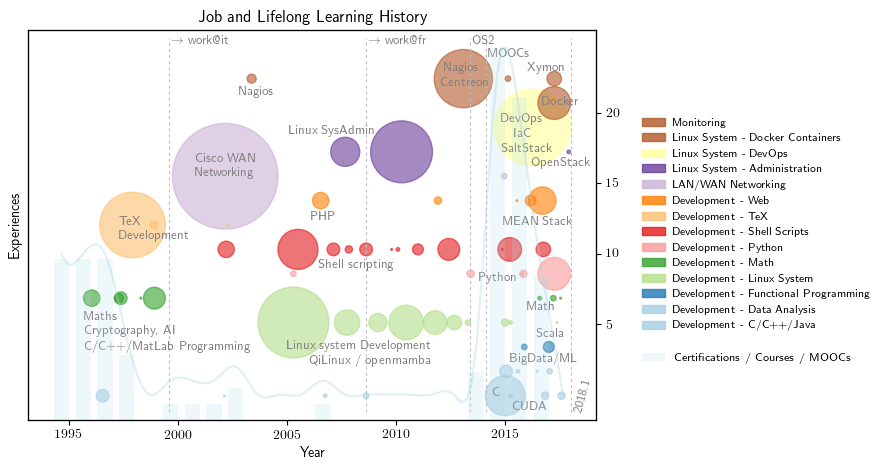
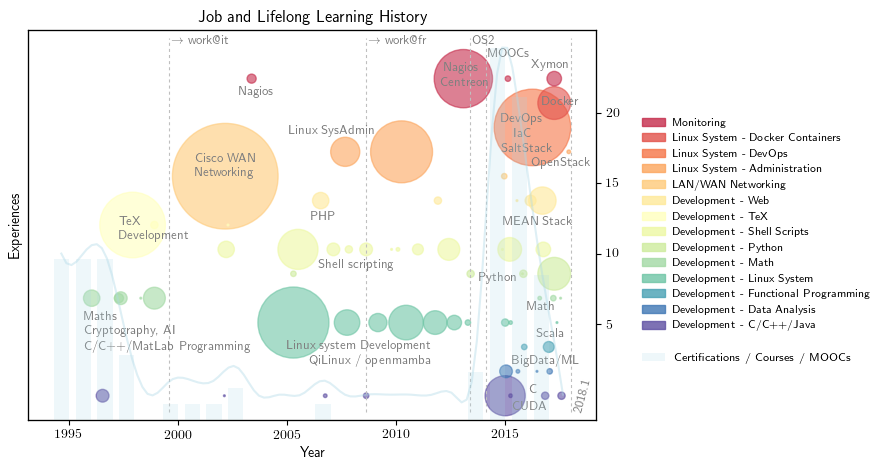
plot: change the plot colormap

diff --git a/scripts/plot-experiences.py b/scripts/plot-experiences.py
@@ -28,7 +28,7 @@ def die(message):
 def getcolor(index, upper):
     """Return a progressive color for an index in range(upper)."""
     assert(index in range(upper))
-    return plt.cm.Paired(np.linspace(0, 1, upper))[index]
+    return plt.cm.Spectral(np.linspace(1, 0, upper, endpoint=False))[index]
 
 def normalize(month):
     """Normalize the month number."""
@@ -155,13 +155,13 @@ def make_jobs_plot(experiences, area_adj=0.74):
         (2006.1,   7.2,  'PHP'),
        #(2013.0,   6.6,  'Web Full Stack'),
         (2013.8,   4.7,  'Python'),
-        (2014.4,   0.0,  'C'),
-        (2015.2,   1.4,  'BigData/ML'),
+        (2016.1,   0.1,  'C'),
+        (2015.3,   1.3,  'BigData/ML'),
         (2016.4,   2.4,  'Scala'),
         (2015.3,  -0.6,  'CUDA'),
         (2016.7,  11.9,  'Docker'),
         (2016.0,   3.5,  'Math'),
-        (2016.0,  13.3,  'Xymon'),
+        (2016.2,  13.4,  'Xymon'),
         (2016.2,   9.4,  'OpenStack')]
     for x, y, label in annotations:
         textlabel(ax, x, y, label)
